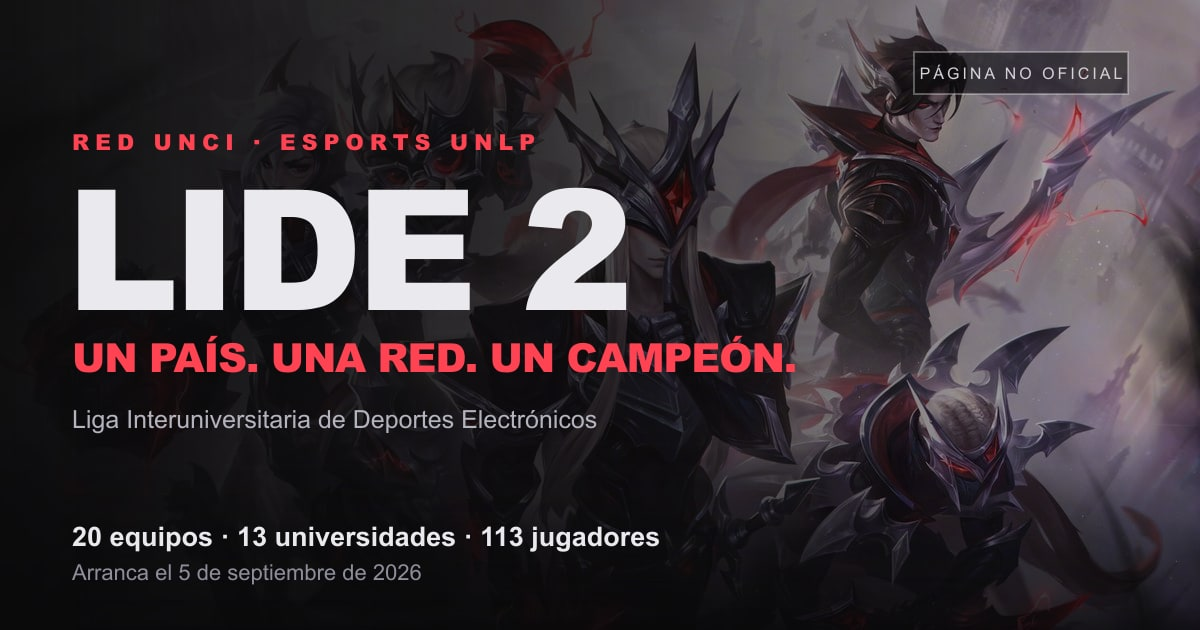
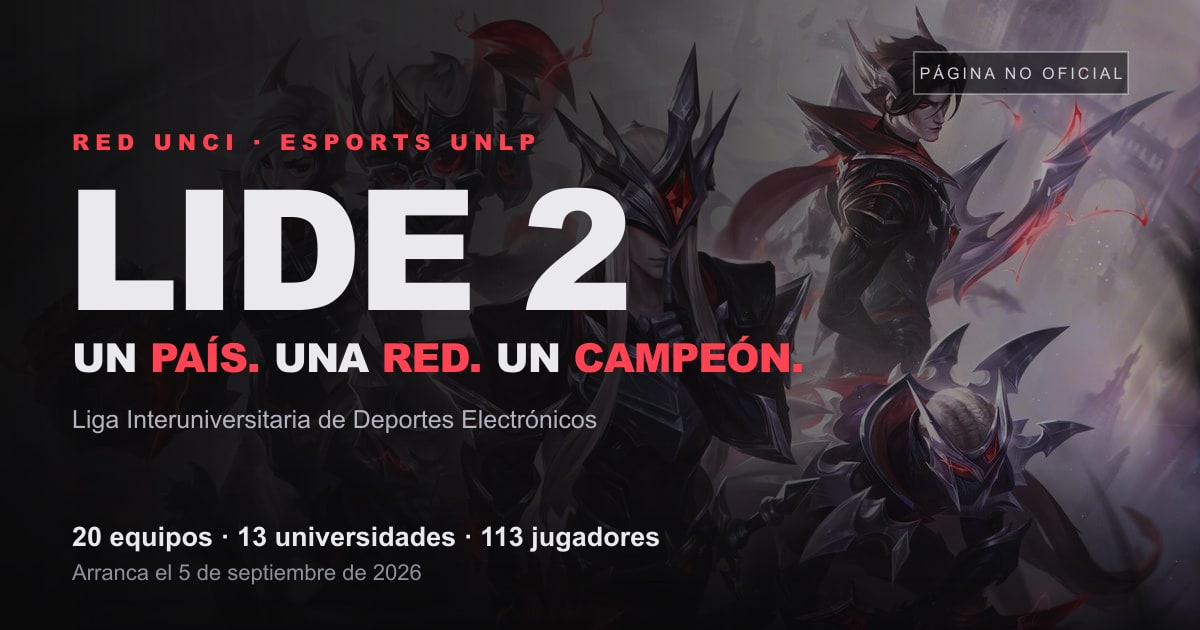
fix(og): colour the slogan in the link preview like the site does
The preview showed "Un pais. Una red. Un campeon." entirely in red, while the
home page has only the noun in the accent colour and the article in the light
one. It was the first thing anyone saw when the link was pasted into WhatsApp or
Discord, and it did not match the first thing they saw on arriving.

The slogan is now built from tspans, one per part, taking the article from the
dark theme's --fg and the noun from --accent, the same two values the Hero uses.

The text element carries xml:space="preserve" and the string is emitted on a
single line: otherwise the SVG collapses the newlines and the indentation into
spaces and the words come out either stuck together or too far apart.

Changed region(s): [[0.0617, 0.5429, 0.6783, 0.6032]]

diff --git a/scripts/og-image.ts b/scripts/og-image.ts
@@ -26,6 +26,8 @@ const HERO = 'public/lide2-hero.jpg'
 const SALIDA = 'src/app/opengraph-image.jpg'
 
 const ROJO = '#ff4353'
+/** El mismo --fg del tema oscuro, que es el que usa el titulo. */
+const CLARO = '#e9e9ee'
 const FONDO = '#0a0a0b'
 
 /** `&` y `<` rompen el SVG, y los nombres salen de un archivo de datos. */
@@ -33,7 +35,22 @@ function xml(text: string): string {
   return text.replace(/&/g, '&amp;').replace(/</g, '&lt;').replace(/>/g, '&gt;')
 }
 
-const slogan = SLOGAN_PARTS.map(({ article, noun }) => `${article} ${noun}.`).join(' ')
+/*
+ * El slogan en dos colores, igual que la portada: el articulo en claro y el
+ * sustantivo en rojo, que es donde esta el peso de la frase (ver el Hero en
+ * src/app/(app)/page.tsx). Antes salia entero en rojo, asi que la miniatura que
+ * se ve al pegar el link no coincidia con lo primero que se ve al entrar.
+ *
+ * Va armado como tspans y con xml:space="preserve" en una sola linea: sin eso
+ * el SVG colapsa los saltos de linea y la indentacion, y las palabras salen
+ * pegadas o con aire de mas. Por eso este string ya trae marcado y no se lo
+ * puede volver a pasar por xml() al interpolarlo.
+ */
+const slogan = SLOGAN_PARTS.map(
+  ({ article, noun }) =>
+    `<tspan fill="${CLARO}">${xml(article.toUpperCase())} </tspan>` +
+    `<tspan fill="${ROJO}">${xml(noun.toUpperCase())}.</tspan>`,
+).join(' ')
 
 /*
  * Las capas, de abajo hacia arriba: la foto recortada, un degradado que la
@@ -68,9 +85,7 @@ const capaTexto = Buffer.from(`
       ${xml(TOURNAMENT.name.toUpperCase())}
     </text>
 
-    <text x="72" y="372" font-size="40" letter-spacing="-1" fill="${ROJO}">
-      ${xml(slogan.toUpperCase())}
-    </text>
+    <text x="72" y="372" font-size="40" letter-spacing="-1" xml:space="preserve">${slogan}</text>
   </g>
 
   <g font-family="Arial, Helvetica, sans-serif">
